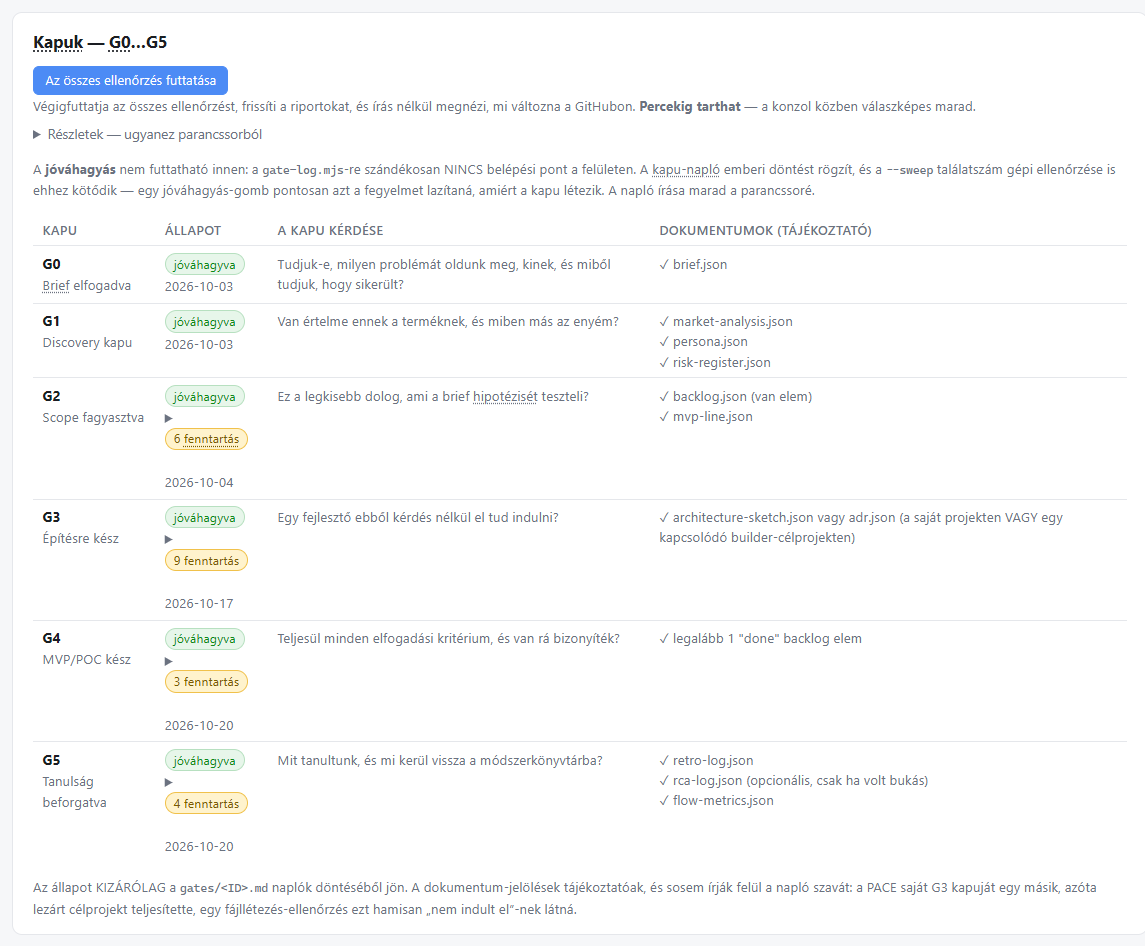
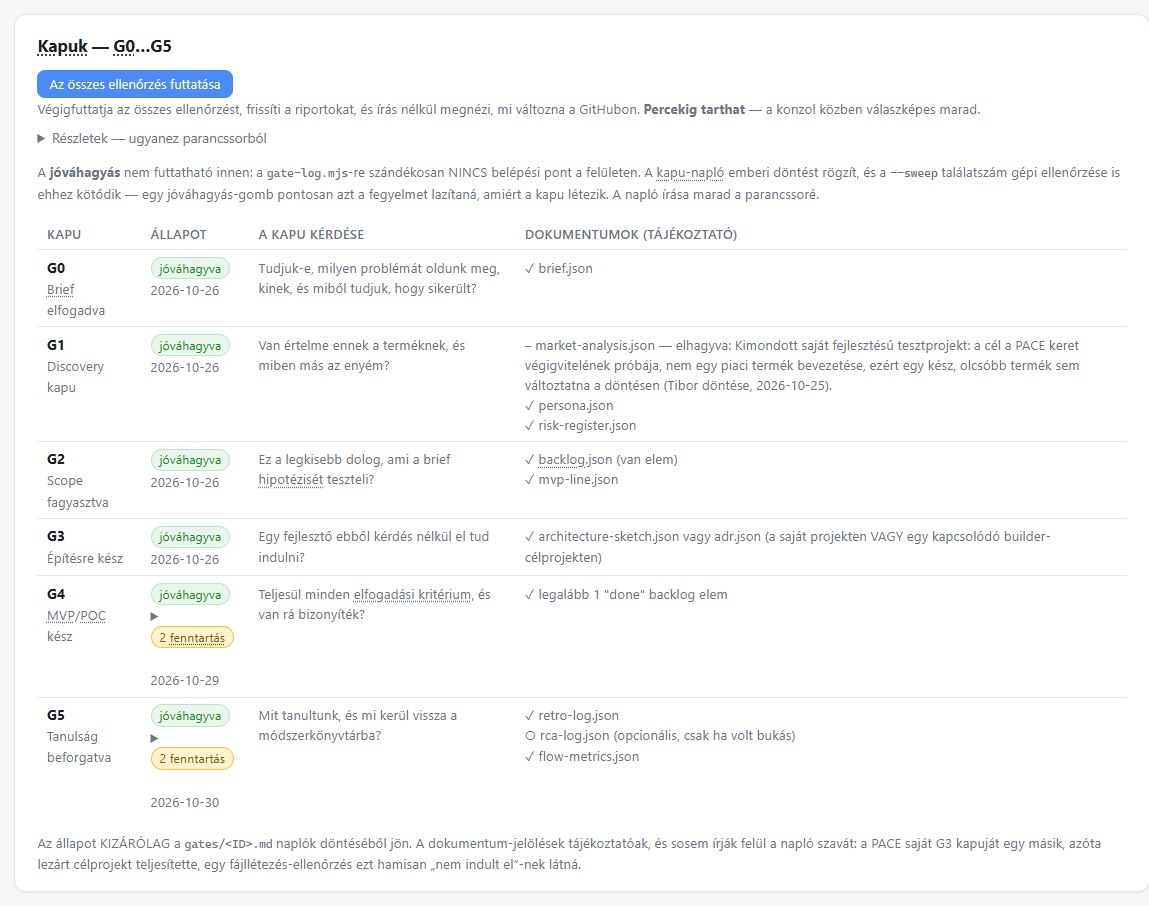
docs: a bemutató képei a kiadas projekten, a konzol mai állapotában; új szakasz a brief AI-átnézéséről
A nyolc kép a kiadas valódi adataiból készült (az 5. és a 6. a G4 kapu régebbi
állapotából, a mai konzollal megnyitva). Új: a brief AI-átnézése (17 javaslat,
5 elfogadva, 12 indokkal elvetve). A voice kapui és mérési képe összehasonlításul
megmaradt a voice szakaszban, a 2026-10-20-i állapotban.

diff --git a/README.md b/README.md
@@ -8,9 +8,13 @@ emberi jóváhagyásért.*
 > privát repókban élnek; itt a működését mutatom be a felületéről készült
 > képekkel.
 >
-> **Fejlesztés alatt.** A képek és a voice számai 2026-10-20-i, a kiadas
-> számai 2026-10-30-i állapotot mutatnak. A keret folyamatosan változik, és a
-> lenti két példaprojekt is a keret hibáinak feltárására készült.
+> **Fejlesztés alatt.** A képek a kiadas projekten mutatják a konzol
+> 2026-11-02-i állapotát (az 5. és a 6. kép a G4 kapu régebbi, 2026-10-29-i
+> állapotát, a mai konzollal megnyitva, mert a kiadas azóta minden kaput
+> lezárt); a voice két képe 2026-10-20-i. A voice számai 2026-10-20-i, a
+> kiadas számai 2026-10-30-i állapotot mutatnak (az SC4-költség
+> 2026-11-02-án javítva). A keret folyamatosan változik, és a lenti két
+> példaprojekt is a keret hibáinak feltárására készült.
 
 ---
 
@@ -42,15 +46,17 @@ kérdésre keres emberi választ.
 ## Végig a felületen
 
 A PACE-nek saját, böngészőben futó kezelőfelülete van (a „konzol”). A képek
-a példaprojekt, a *voice* valódi adataiból készültek.
+a második példaprojekt, a *kiadas* valódi adataiból készültek: ez az első
+projekt, amelyet a keret a saját felületéről indított, és amelynek a
+brieftől a próbáig minden lépése itt követhető.
 
 ### 1. Indítás: egy brief, amely megmondja, mi hiányzik
 
 Az új projekt egy űrlappal indul. Négy mező kötelező — a probléma, a cél,
 legalább egy célfelhasználó és legalább egy siker-kritérium —, minden más
 puha: ami hiányzik, azt a rendszer nyitott kérdésként vagy jelölt feltevésként
-viszi tovább, nem találja ki. A formát váró mezők mellett minta áll, és a lap
-menet közben jelzi, mi hiányzik még.
+viszi tovább, nem találja ki. A formát váró mezők mellett minta áll (a kép az
+űrlap tetejét mutatja), és a lap menet közben jelzi, mi hiányzik még.
 
 ![Új projekt indítása: az űrlap mintákkal és a kötelező mezők jelölésével](kepek/02-uj-projekt.png)
 
@@ -61,50 +67,65 @@ de nem állít meg, és ami kitöltött, de gyenge.
 
 ![A brief egészségi lapja három szinten](kepek/03-brief-egeszseg.png)
 
-### 3. A kapuk állása
+### 3. A brief AI-átnézése
+
+Ha a brief gyenge, az AI tartalmi javaslatot tesz: kulccsal a konzol egy
+nyelvi modellt (DeepSeek) hív, kulcs nélkül a Claude Code végzi ugyanezt.
+**A javaslat sosem íródik magától a briefbe**: minden javaslatról ember dönt,
+az elfogadott érték „következtetett” eredet-jelölést kap, az elvetett
+indoklással a naplóban marad, és ami nem fogadható el, mellette nem gomb áll,
+hanem az ok. A kiadas briefjére 17 javaslat született: 5-öt fogadtunk el, 12-t
+indokkal elvetettünk (a kép az első ötöt mutatja).
+
+![A brief AI-átnézése: javaslatok, indoklással elvetett és elfogadott döntések](kepek/03b-ai-atnezes.png)
+
+### 4. A kapuk állása
 
 Egy kapu állapotát kizárólag a kapu-napló emberi döntése adja. A felületről a
 jóváhagyás szándékosan nem futtatható: a napló írása a parancssoré, a
 döntéssel és a bírálat mellékelt jelentésével együtt. A fenntartások — a
-jóváhagyás feltételeként nyitva maradó feladatok — kapunként látszanak.
+jóváhagyás feltételeként nyitva maradó feladatok — kapunként látszanak. A
+kép a kiadas kapuit mutatja; a G1-nél a kihagyott dokumentum indoklása is
+ott áll (kimondott saját-fejlesztésű tesztprojekt).
 
-![A voice kapui G0-tól G5-ig: mind jóváhagyva, a fenntartások számával](kepek/04-kapuk.png)
+![A kiadas kapui G0-tól G5-ig: mind jóváhagyva, a fenntartások számával](kepek/04-kapuk.png)
 
-### 4. Mi a következő lépés?
+### 5. Mi a következő lépés?
 
 A futó kapu lépései sorrendben: ki végzi (az ügynök, a felület vagy az
 ember), mit kell tenni, és pontosan mit kell beírni vagy megnyomni. A kép a
-voice-nak azt az állapotát mutatja, amikor a G4 már jóváhagyott volt, és a
-záró G5 következett.
+kiadas G4 kapujának régebbi állapotát mutatja (2026-10-29, a bírálat első
+köre után): a bírálat lefutott, az emberi döntés még várat magára.
 
-![A következő lépés panel a G5 kapu lépéseivel](kepek/05-kovetkezo-lepes.png)
+![A következő lépés panel a G4 kapu lépéseivel](kepek/05-kovetkezo-lepes.png)
 
-### 5. Kérdések, amelyek önmagukban érthetők
+### 6. Kérdések, amelyek önmagukban érthetők
 
 Az ügynök menet közben nem kérdezget, hanem összegyűjti a kérdéseket, és a
 kapunál egyben teszi fel őket. Minden kérdés ugyanazt a szerkezetet követi:
 mire vonatkozik, mit javasol az ügynök, mi az ára, és mi a másik lehetőség.
 A felület feloldja, mire hivatkozik a kérdés, és a válasz ugyanitt adható
 meg — ha valami nem érthető, a „Visszakérdezek” gombbal az ügynök kifejti.
-A kép ugyanabból az állapotból készült, mint az előző.
+A kép ugyanabból az állapotból készült, mint az előző (a hét nyitott
+kérdésből az első ötöt mutatja).
 
 ![A nyitott kérdések panelje: javaslat, ár, alternatíva, hivatkozások és a válasz mezője](kepek/06-kerdesek.png)
 
-### 6. Backlog és nyomon követhetőség
+### 7. Backlog és nyomon követhetőség
 
 A backlog fában: epic, story, spike, chore, mindegyiknél az állapot, a
 becslés, az elfogadási kritériumok és a tesztek száma, és a GitHub-issue
-száma.
+száma. Az elejtett („dropped”) elemek külön jelölést kapnak, nem tűnnek el.
 
-![A backlog összesítője és fája](kepek/07-backlog.png)
+![A kiadas backlogjának összesítője és fája](kepek/07-backlog.png)
 
-### 7. Mérés
+### 8. Mérés
 
 A mérőszámokat a gép számolja a projekt adataiból — a kapuk jóváhagyási
 aránya, a bírálati körök, a nyitott kérdések, az emberi döntések száma —, és
 mindegyik kimondja, mire épül és mit nem mér.
 
-![A mérési pillanatkép a voice projektről](kepek/08-meresek.png)
+![A mérési pillanatkép a kiadas projektről](kepek/08-meresek.png)
 
 ## Példaprojekt: voice
 
@@ -120,6 +141,14 @@ fenntartásokkal; a záró kapu első futását a bíráló egy elavult szám mi
 visszaküldte, az új futás egy kör után ment át. A teljes esettanulmány a
 számokkal, a tanulságokkal és a korlátokkal:
 [esettanulmany-voice.md](esettanulmany-voice.md).
+
+Összehasonlításul a voice kapui és mérési pillanatképe a konzol
+2026-10-20-i állapotában (a voice-nál nagyobb a backlog, és a G2–G5 több
+fenntartással zárult, mint a kiadas kapui):
+
+![A voice kapui G0-tól G5-ig, a konzol 2026-10-20-i állapotában](kepek/voice-04-kapuk.png)
+
+![A mérési pillanatkép a voice projektről, 2026-10-20](kepek/voice-08-meresek.png)
 
 ## Második példaprojekt: kiadas
 
